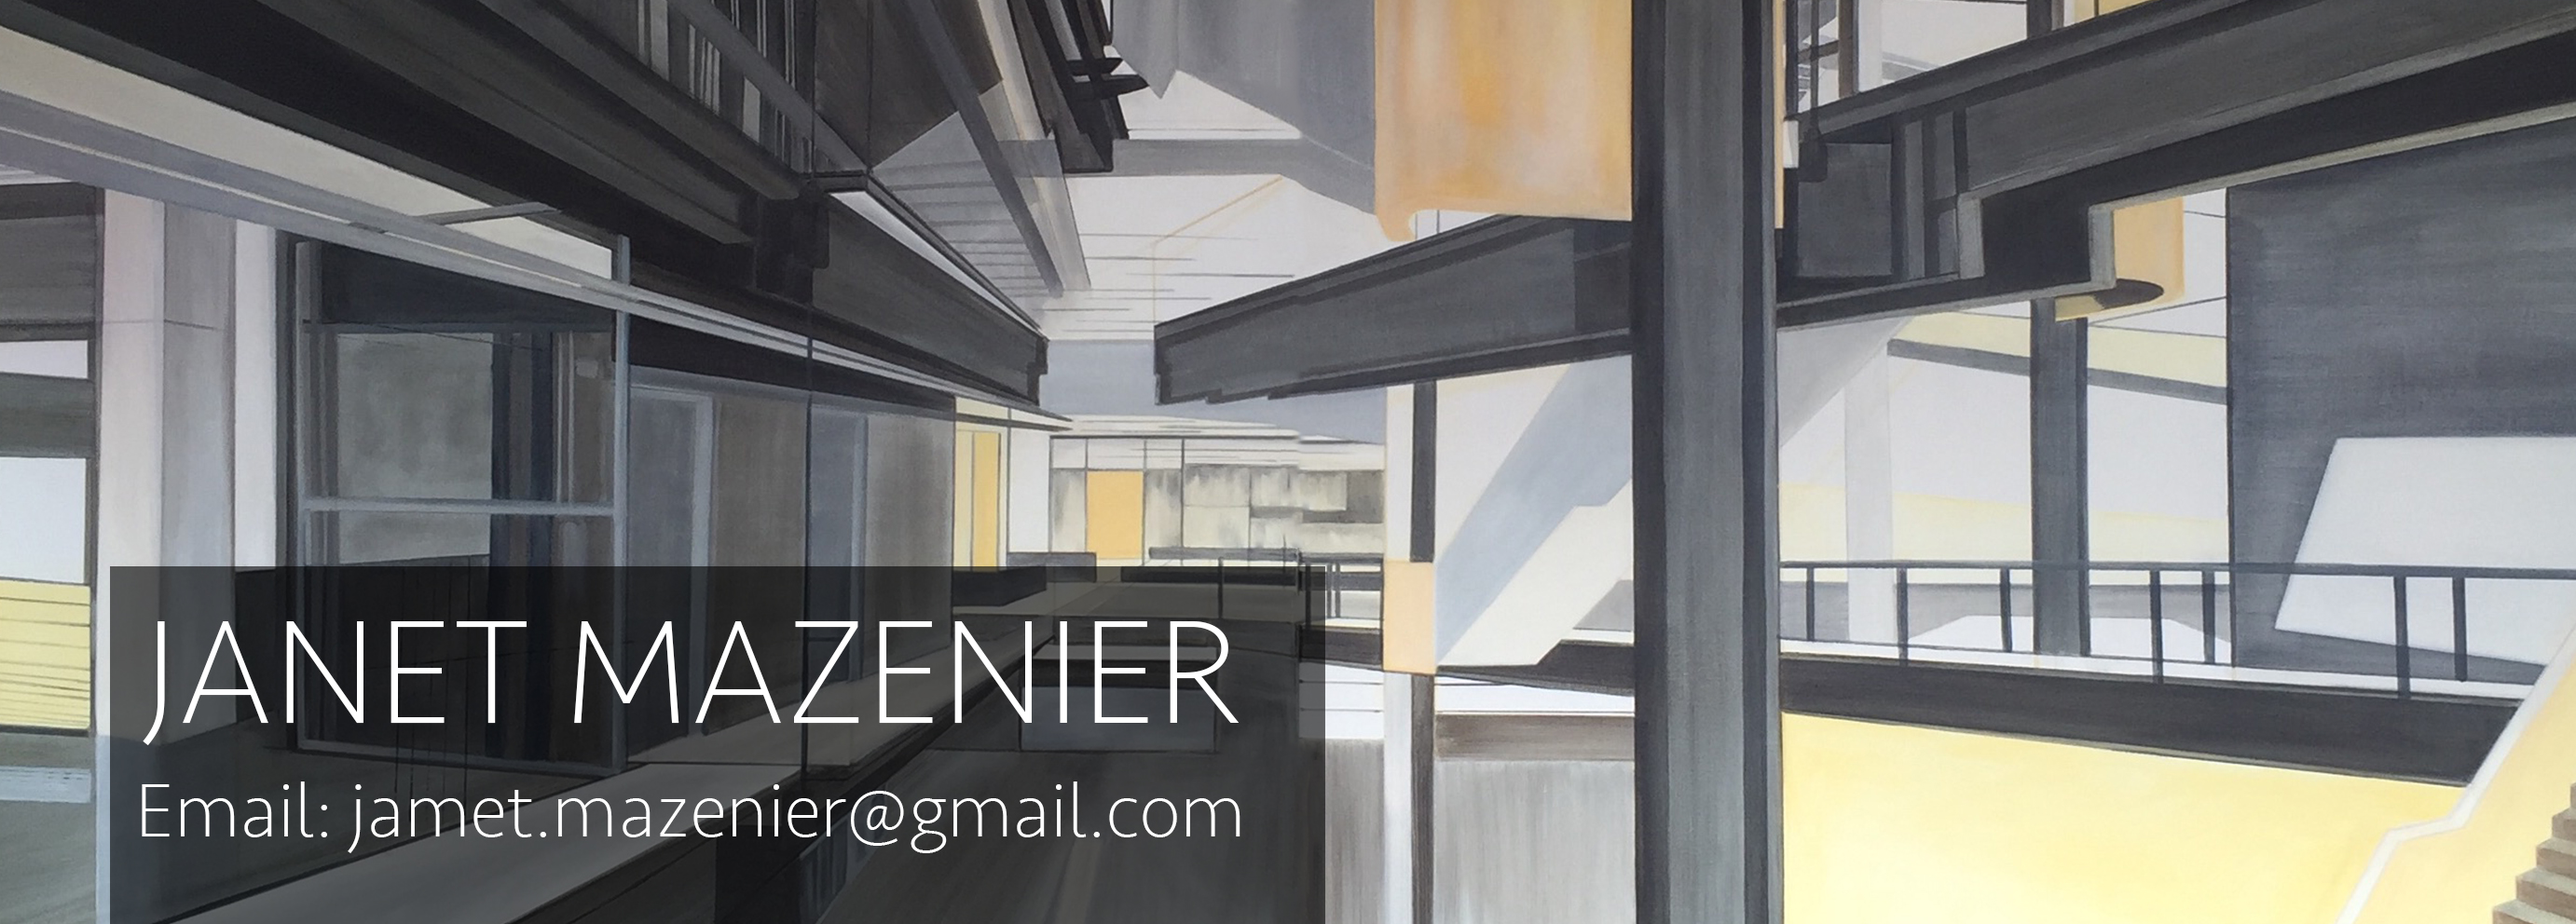
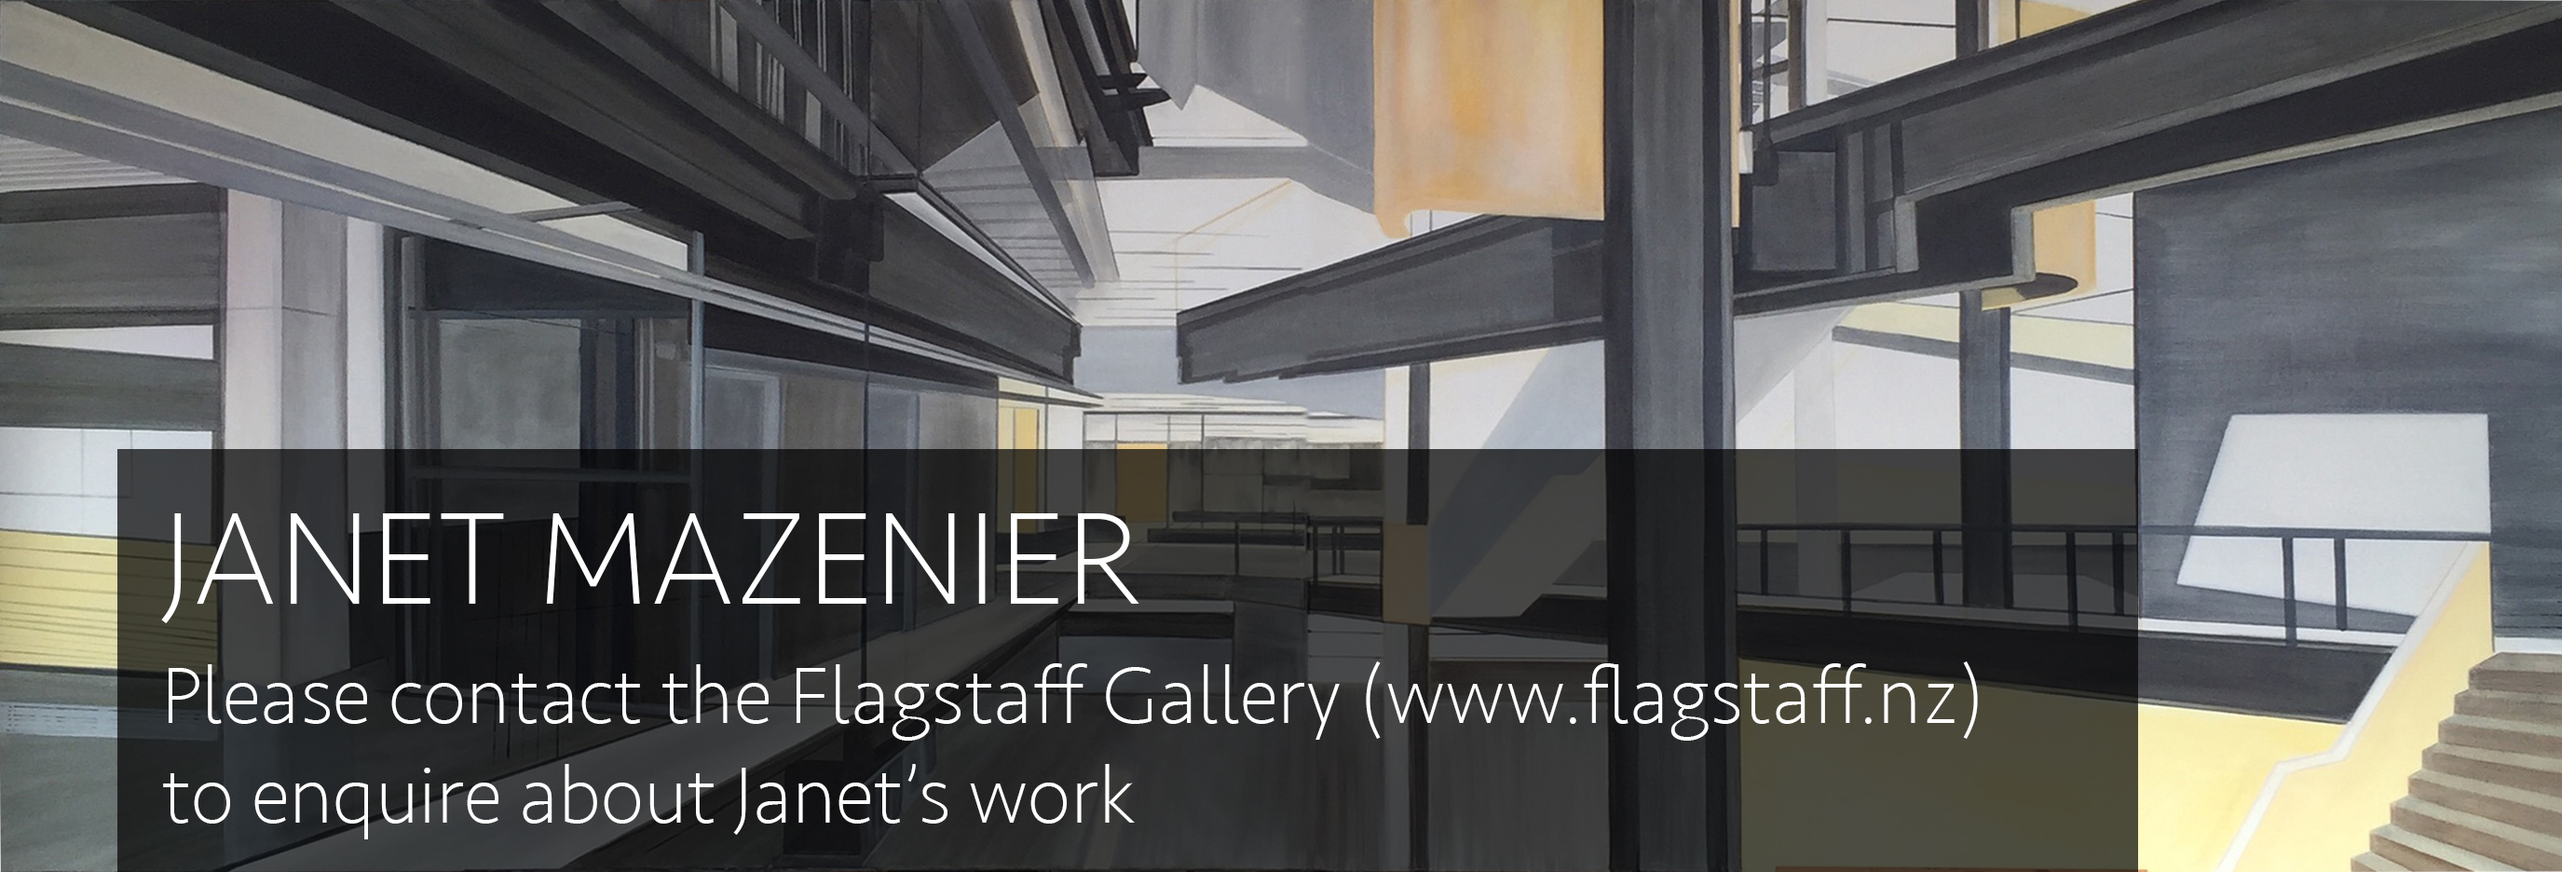
Changes
Front page:

delete “email jamet (sic) mazenier.com"

leave JANET MAZENIER and underneath put - please contact the Flagstaff
Gallery (www.flagstaff.nz) to enquire about Janet’s work

Current works:

I’m going to re-title all of them now they are separate paintings
rather than a body of work for an exhibition.  But for now can you
please change the title of “Advise it” to “Look out, look in” Ta :-)

CV:

Can you please under Planned Exhibitions 2016, October, Flagstaff
Gallery, Whitecliffe graduates

Then from Planned Exhibitions cut and paste to go under Selected Group
Exhibitions - 2016, Leveraged, the Depot etc.

Links:

add in www.flagstaff.nz

delete Susan Knaap, Veronica Herber, Margaret Estall, Ian Roberts, and
the Depot

diff --git a/mobile/cv.html b/mobile/cv.html
@@ -25,7 +25,7 @@
 			<a href="current-works-gallery/currentworks.html">Current Works</a>
 			<a href="cv.html">CV</a>
 			<a href="links.html">Links</a>
-            <a href="mailto:janet.mazenier@gmail.com">Email me at: janet.mazenier@gmail.com</a>
+            <a href="http://www.flagstaff.nz/">Please contact the Flagstaff Gallery (www.flagstaff.nz) to enquire about Janet’s work.</a>
 		</nav>
 		<div class="container">
 			<header class="clearfix">
@@ -36,41 +36,42 @@
                 </div>
             </header>
 			<div class="main">
-        <h2>Planned Exhibitions</h2>
-        <p>2016 Leveraged, The Depot, Main Gallery, Devonport, Auckland (individual exhibition)</p>
-    	<h2>Awards and Competitions</h2>
-<p>2015   Cliftons Art competition finalist, painting, Auckland</p>
-<p>2014   North City Plaza “unleashed” art competition finalist, painting, Porirua</p>
-<p>2014   Pataka Friends Art Awards, finalist, Porirua</p>
-<p>2013   Pataka Friends Art Awards, finalist, Porirua</p>
-<p>2013   Cliftons Art competition finalist, painting, Wellington</p>
-<p>2009   Guardians of Pauatahanui Inlet – photo competition, finalist, Porirua</p>
-<p>2008   East Arts Awards – winner “new artist” category, painting, Auckland</p>
-<h2>Selected Group Exhibitions</h2>
-<p>2015   Graduate Exhibition, Whitecliffe School of Art & Design, Auckland</p>
-<p>2015   Whitecliffe, year 4 BFA “fast food”, Auckland</p>
-<p>2014   Whitecliffe, Advanced Diploma Fine Arts “we are three”, Auckland</p>
-<p>2014   Con-Fluent poetry-art collaboration, Porirua</p>
-<p>2012   Artbourne, Eastbourne, Wellington</p>
-<p>2012   Mana Art Society, Porirua</p>
-<p>2011   NZ Academy of Fine Arts, “Art to go”, Wellington</p>
-<p>2010   NZ Art Show, Wellington</p>
-<p>2010   Artbourne, Eastbourne, Wellington</p>
-<p>2009   Pataka, “Local colour red”, Porirua</p>
-<p>2009   NZ Art Show, Wellington</p>
-<p>2008   Thistle Hall, Wellington</p>
-<p>2008   NZ Academy of Fine Arts, Summer exhibition, Wellington</p>
-<h2>Selected Individual Exhibitions</h2>
-<p>2014   Emerging Light Gallery, Plimmerton, Porirua</p>
-<p>2008   Gallery 1847 Pauatahanui “Essence”, Pauatahanui, Porirua</p>
-<h2>Education</h2>
-<p>2015   Whitecliffe, Bachelor of Fine Arts, Auckland</p>
-<p>2014   Whitecliffe, Advanced Diploma Fine Arts, Auckland</p>
-<h2>Informal</h2>
-<p>2013   Provence with Ian Roberts – 10 day residential painting course, France</p>
-<h2>Other</h2>
-<p>2013   100 days project (100 consecutive days of painting), social media</p>
-<p>2009   Part-owner artist-run gallery (Gallery 1847) Pauatahanui, Porirua</p>
+              <h2>Planned Exhibitions</h2>
+              <p>2016   October, Flagstaff Gallery, Whitecliffe graduates</p>
+              <h2>Awards and Competitions</h2>
+              <p>2015   Cliftons Art competition finalist, painting, Auckland</p>
+              <p>2014   North City Plaza “unleashed” art competition finalist, painting, Porirua</p>
+              <p>2014   Pataka Friends Art Awards, finalist, Porirua</p>
+              <p>2013   Pataka Friends Art Awards, finalist, Porirua</p>
+              <p>2013   Cliftons Art competition finalist, painting, Wellington</p>
+              <p>2009   Guardians of Pauatahanui Inlet – photo competition, finalist, Porirua</p>
+              <p>2008   East Arts Awards – winner “new artist” category, painting, Auckland</p>
+              <h2>Selected Group Exhibitions</h2>
+              <p>2016   Leveraged, The Depot, Main Gallery, Devonport, Auckland (individual exhibition)</p>
+              <p>2015   Graduate Exhibition, Whitecliffe School of Art & Design, Auckland</p>
+              <p>2015   Whitecliffe, year 4 BFA “fast food”, Auckland</p>
+              <p>2014   Whitecliffe, Advanced Diploma Fine Arts “we are three”, Auckland</p>
+              <p>2014   Con-Fluent poetry-art collaboration, Porirua</p>
+              <p>2012   Artbourne, Eastbourne, Wellington</p>
+              <p>2012   Mana Art Society, Porirua</p>
+              <p>2011   NZ Academy of Fine Arts, “Art to go”, Wellington</p>
+              <p>2010   NZ Art Show, Wellington</p>
+              <p>2010   Artbourne, Eastbourne, Wellington</p>
+              <p>2009   Pataka, “Local colour red”, Porirua</p>
+              <p>2009   NZ Art Show, Wellington</p>
+              <p>2008   Thistle Hall, Wellington</p>
+              <p>2008   NZ Academy of Fine Arts, Summer exhibition, Wellington</p>
+              <h2>Selected Individual Exhibitions</h2>
+              <p>2014   Emerging Light Gallery, Plimmerton, Porirua</p>
+              <p>2008   Gallery 1847 Pauatahanui “Essence”, Pauatahanui, Porirua</p>
+              <h2>Education</h2>
+              <p>2015   Whitecliffe, Bachelor of Fine Arts, Auckland</p>
+              <p>2014   Whitecliffe, Advanced Diploma Fine Arts, Auckland</p>
+              <h2>Informal</h2>
+              <p>2013   Provence with Ian Roberts – 10 day residential painting course, France</p>
+              <h2>Other</h2>
+              <p>2013   100 days project (100 consecutive days of painting), social media</p>
+              <p>2009   Part-owner artist-run gallery (Gallery 1847) Pauatahanui, Porirua</p>
 			</div>
 		</div>
 		<!-- Classie - class helper functions by @desandro https://github.com/desandro/classie -->

diff --git a/cv.html b/cv.html
@@ -29,40 +29,41 @@
 	<div class="content">
     	<h1>CV</h1>
         <h2>Planned Exhibitions</h2>
-        <p>2016 Leveraged, The Depot, Main Gallery, Devonport, Auckland (individual exhibition)</p>
+        <p>2016   October, Flagstaff Gallery, Whitecliffe graduates</p>
         <h2>Awards and Competitions</h2>
-<p>2015   Cliftons Art competition finalist, painting, Auckland</p>
-<p>2014   North City Plaza “unleashed” art competition finalist, painting, Porirua</p>
-<p>2014   Pataka Friends Art Awards, finalist, Porirua</p>
-<p>2013   Pataka Friends Art Awards, finalist, Porirua</p>
-<p>2013   Cliftons Art competition finalist, painting, Wellington</p>
-<p>2009   Guardians of Pauatahanui Inlet – photo competition, finalist, Porirua</p>
-<p>2008   East Arts Awards – winner “new artist” category, painting, Auckland</p>
-<h2>Selected Group Exhibitions</h2>
-<p>2015   Graduate Exhibition, Whitecliffe School of Art & Design, Auckland</p>
-<p>2015   Whitecliffe, year 4 BFA “fast food”, Auckland</p>
-<p>2014   Whitecliffe, Advanced Diploma Fine Arts “we are three”, Auckland</p>
-<p>2014   Con-Fluent poetry-art collaboration, Porirua</p>
-<p>2012   Artbourne, Eastbourne, Wellington</p>
-<p>2012   Mana Art Society, Porirua</p>
-<p>2011   NZ Academy of Fine Arts, “Art to go”, Wellington</p>
-<p>2010   NZ Art Show, Wellington</p>
-<p>2010   Artbourne, Eastbourne, Wellington</p>
-<p>2009   Pataka, “Local colour red”, Porirua</p>
-<p>2009   NZ Art Show, Wellington</p>
-<p>2008   Thistle Hall, Wellington</p>
-<p>2008   NZ Academy of Fine Arts, Summer exhibition, Wellington</p>
-<h2>Selected Individual Exhibitions</h2>
-<p>2014   Emerging Light Gallery, Plimmerton, Porirua</p>
-<p>2008   Gallery 1847 Pauatahanui “Essence”, Pauatahanui, Porirua</p>
-<h2>Education</h2>
-<p>2015   Whitecliffe, Bachelor of Fine Arts, Auckland</p>
-<p>2014   Whitecliffe, Advanced Diploma Fine Arts, Auckland</p>
-<h2>Informal</h2>
-<p>2013   Provence with Ian Roberts – 10 day residential painting course, France</p>
-<h2>Other</h2>
-<p>2013   100 days project (100 consecutive days of painting), social media</p>
-<p>2009   Part-owner artist-run gallery (Gallery 1847) Pauatahanui, Porirua</p>
+        <p>2015   Cliftons Art competition finalist, painting, Auckland</p>
+        <p>2014   North City Plaza “unleashed” art competition finalist, painting, Porirua</p>
+        <p>2014   Pataka Friends Art Awards, finalist, Porirua</p>
+        <p>2013   Pataka Friends Art Awards, finalist, Porirua</p>
+        <p>2013   Cliftons Art competition finalist, painting, Wellington</p>
+        <p>2009   Guardians of Pauatahanui Inlet – photo competition, finalist, Porirua</p>
+        <p>2008   East Arts Awards – winner “new artist” category, painting, Auckland</p>
+        <h2>Selected Group Exhibitions</h2>
+        <p>2016   Leveraged, The Depot, Main Gallery, Devonport, Auckland (individual exhibition)</p>
+        <p>2015   Graduate Exhibition, Whitecliffe School of Art & Design, Auckland</p>
+        <p>2015   Whitecliffe, year 4 BFA “fast food”, Auckland</p>
+        <p>2014   Whitecliffe, Advanced Diploma Fine Arts “we are three”, Auckland</p>
+        <p>2014   Con-Fluent poetry-art collaboration, Porirua</p>
+        <p>2012   Artbourne, Eastbourne, Wellington</p>
+        <p>2012   Mana Art Society, Porirua</p>
+        <p>2011   NZ Academy of Fine Arts, “Art to go”, Wellington</p>
+        <p>2010   NZ Art Show, Wellington</p>
+        <p>2010   Artbourne, Eastbourne, Wellington</p>
+        <p>2009   Pataka, “Local colour red”, Porirua</p>
+        <p>2009   NZ Art Show, Wellington</p>
+        <p>2008   Thistle Hall, Wellington</p>
+        <p>2008   NZ Academy of Fine Arts, Summer exhibition, Wellington</p>
+        <h2>Selected Individual Exhibitions</h2>
+        <p>2014   Emerging Light Gallery, Plimmerton, Porirua</p>
+        <p>2008   Gallery 1847 Pauatahanui “Essence”, Pauatahanui, Porirua</p>
+        <h2>Education</h2>
+        <p>2015   Whitecliffe, Bachelor of Fine Arts, Auckland</p>
+        <p>2014   Whitecliffe, Advanced Diploma Fine Arts, Auckland</p>
+        <h2>Informal</h2>
+        <p>2013   Provence with Ian Roberts – 10 day residential painting course, France</p>
+        <h2>Other</h2>
+        <p>2013   100 days project (100 consecutive days of painting), social media</p>
+        <p>2009   Part-owner artist-run gallery (Gallery 1847) Pauatahanui, Porirua</p>
     </div>
 </div>
 </body>

diff --git a/mobile/index.html b/mobile/index.html
@@ -25,7 +25,7 @@
 			<a href="current-works-gallery/currentworks.html">Current Works</a>
 			<a href="cv.html">CV</a>
 			<a href="links.html">Links</a>
-            <a href="mailto:janet.mazenier@gmail.com">Email me at: janet.mazenier@gmail.com</a>
+            <a href="http://www.flagstaff.nz/">Please contact the Flagstaff Gallery (www.flagstaff.nz) to enquire about Janet’s work.</a>
 		</nav>
 		<div class="container">
 			<header class="clearfix">
@@ -36,7 +36,10 @@
                 </div>
             </header>
 			<div class="main">
-    <p>Janet Mazenier is a full-time visual artist who exhibits widely and has work in collections in New Zealand, Australia and the United Kingdom.  Prior to taking up painting full-time, she was a business person who enjoyed leading large programmes of work within the public sector, information technology or telecommunications industries.  Janet continues to take a programme approach to her painting, identifying and investigating the relationship between humans and the architecture of their spaces.</p>
+    <p>Janet Mazenier is a New Zealand artist best known for her paintings of architectural spaces.  In her work, Janet identifies and investigates the ongoing relationship between humans and the architecture of their surroundings, encouraging a reflective approach to wonder why some spaces are left vacant, and others populated.</p>
+      <p>Having lived in Wellington for most of her working life in business before taking up painting fulltime, Janet now resides in Devonport, Auckland.  She recently graduated with a Bachelors Degree in Fine Art (painting) from Whitecliffe School of Art and Design.</p>
+      <p>She has had solo exhibitions and has participated in many group exhibitions.  Janet has been a finalist in competitions, winning the award of “new artist” in Auckland’s East Art Awards in 2008.</p>
+      <p>Janet's work is held in private collections in England, Australia and New Zealand. Her work is represented by the Flagstaff Gallery in Devonport, Auckland, New Zealand.</p>
 			</div>
 		</div>
 		<!-- Classie - class helper functions by @desandro https://github.com/desandro/classie -->

diff --git a/index.html b/index.html
@@ -27,9 +27,12 @@
         	</div>
 	</div>
     <div class="content">
-	<h1>About</h1>
-    <img src="images/aboutOilPainting.jpg" alt="oilpainting" width="100%">
-    <p>Janet Mazenier is a full-time visual artist who exhibits widely and has work in collections in New Zealand, Australia and the United Kingdom.  Prior to taking up painting full-time, she was a business person who enjoyed leading large programmes of work within the public sector, information technology or telecommunications industries.  Janet continues to take a programme approach to her painting, identifying and investigating the relationship between humans and the architecture of their spaces.</p>
+      <h1>About</h1>
+      <img src="images/aboutOilPainting.jpg" alt="oilpainting" width="100%">
+      <p>Janet Mazenier is a New Zealand artist best known for her paintings of architectural spaces.  In her work, Janet identifies and investigates the ongoing relationship between humans and the architecture of their surroundings, encouraging a reflective approach to wonder why some spaces are left vacant, and others populated.</p>
+      <p>Having lived in Wellington for most of her working life in business before taking up painting fulltime, Janet now resides in Devonport, Auckland.  She recently graduated with a Bachelors Degree in Fine Art (painting) from Whitecliffe School of Art and Design.</p>
+      <p>She has had solo exhibitions and has participated in many group exhibitions.  Janet has been a finalist in competitions, winning the award of “new artist” in Auckland’s East Art Awards in 2008.</p>
+      <p>Janet's work is held in private collections in England, Australia and New Zealand. Her work is represented by the Flagstaff Gallery in Devonport, Auckland, New Zealand.</p>
     </div>
 </div>
 </body>

diff --git a/mobile/links.html b/mobile/links.html
@@ -25,7 +25,7 @@
 			<a href="current-works-gallery/currentworks.html">Current Works</a>
 			<a href="cv.html">CV</a>
 			<a href="links.html">Links</a>
-            <a href="mailto:janet.mazenier@gmail.com">Email me at: janet.mazenier@gmail.com</a>
+            <a href="http://www.flagstaff.nz/">Please contact the Flagstaff Gallery (www.flagstaff.nz) to enquire about Janet’s work.</a>
 		</nav>
 		<div class="container">
 			<header class="clearfix">
@@ -36,12 +36,8 @@
                 </div>
             </header>
 			<div class="main">
-              <p>Whitecliffe College of Art and Design – <a href="http://www.whitecliffe.ac.nz">http://www.whitecliffe.ac.nz</a></p>
-              <p>Artist Susan Knaap – <a href="http://susanknaap.com">http://susanknaap.com</a></p>
-              <p>Artist Ian Roberts – <a href="http://www.ianroberts.com">http://www.ianroberts.com</a></p>
-              <p>Installation Artist Veronica Herber – <a href="http://www.veronicaherber.com">http://www.veronicaherber.com</a></p>
-              <p>Artist Margaret Estall – <a href="https://margaretestallart.wordpress.com/about/">https://margaretestallart.wordpress.com/about/</a></p>
-              <p>DepotArtSpace - <a href="https://depotartspace.co.nz/">https://depotartspace.co.nz/</a></p>
+              <p>Whitecliffe College of Art and Design – <a href="http://www.whitecliffe.ac.nz/">http://www.whitecliffe.ac.nz/</a></p>
+              <p>Flagstaff Gallery – <a href="http://www.flagstaff.nz/">http://www.flagstaff.nz/</a></p>
 			</div>
 		</div>
 		<!-- Classie - class helper functions by @desandro https://github.com/desandro/classie -->

diff --git a/links.html b/links.html
@@ -28,12 +28,8 @@
 	</div>
 	<div class="content">
     	<h1>Links</h1>
-    	<p>Whitecliffe College of Art and Design – <a href="http://www.whitecliffe.ac.nz">http://www.whitecliffe.ac.nz</a></p>
-		<p>Artist Susan Knaap – <a href="http://susanknaap.com">http://susanknaap.com</a></p>
-		<p>Artist Ian Roberts – <a href="http://www.ianroberts.com">http://www.ianroberts.com</a></p>
-		<p>Installation Artist Veronica Herber – <a href="http://www.veronicaherber.com">http://www.veronicaherber.com</a></p>
-		<p>Artist Margaret Estall – <a href="https://margaretestallart.wordpress.com/about/">https://margaretestallart.wordpress.com/about/</a></p>
-        <p>DepotArtSpace - <a href="https://depotartspace.co.nz/">https://depotartspace.co.nz/</a></p>
+    	<p>Whitecliffe College of Art and Design – <a href="http://www.whitecliffe.ac.nz/">http://www.whitecliffe.ac.nz/</a></p>
+		<p>Flagstaff Gallery – <a href="http://www.flagstaff.nz/">http://www.flagstaff.nz/</a></p>
     </div>
 </div>
 </body>
